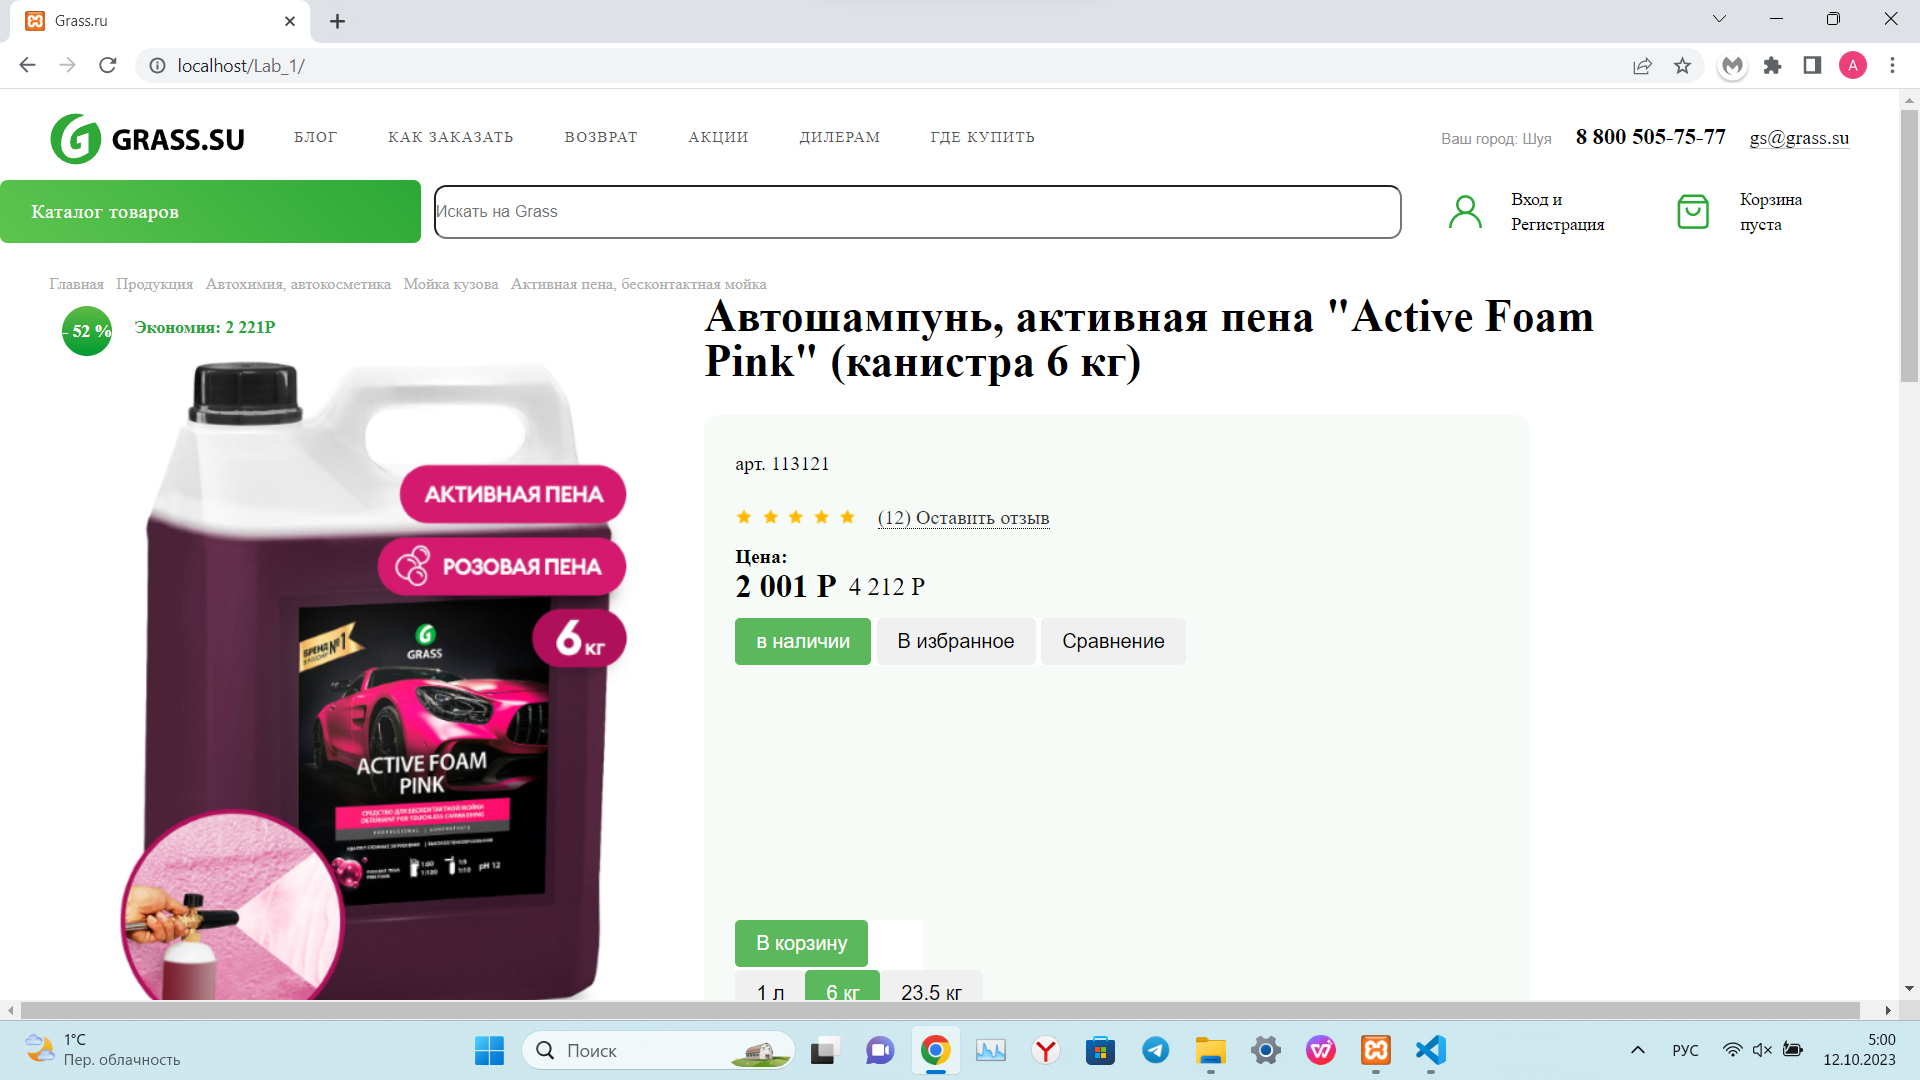
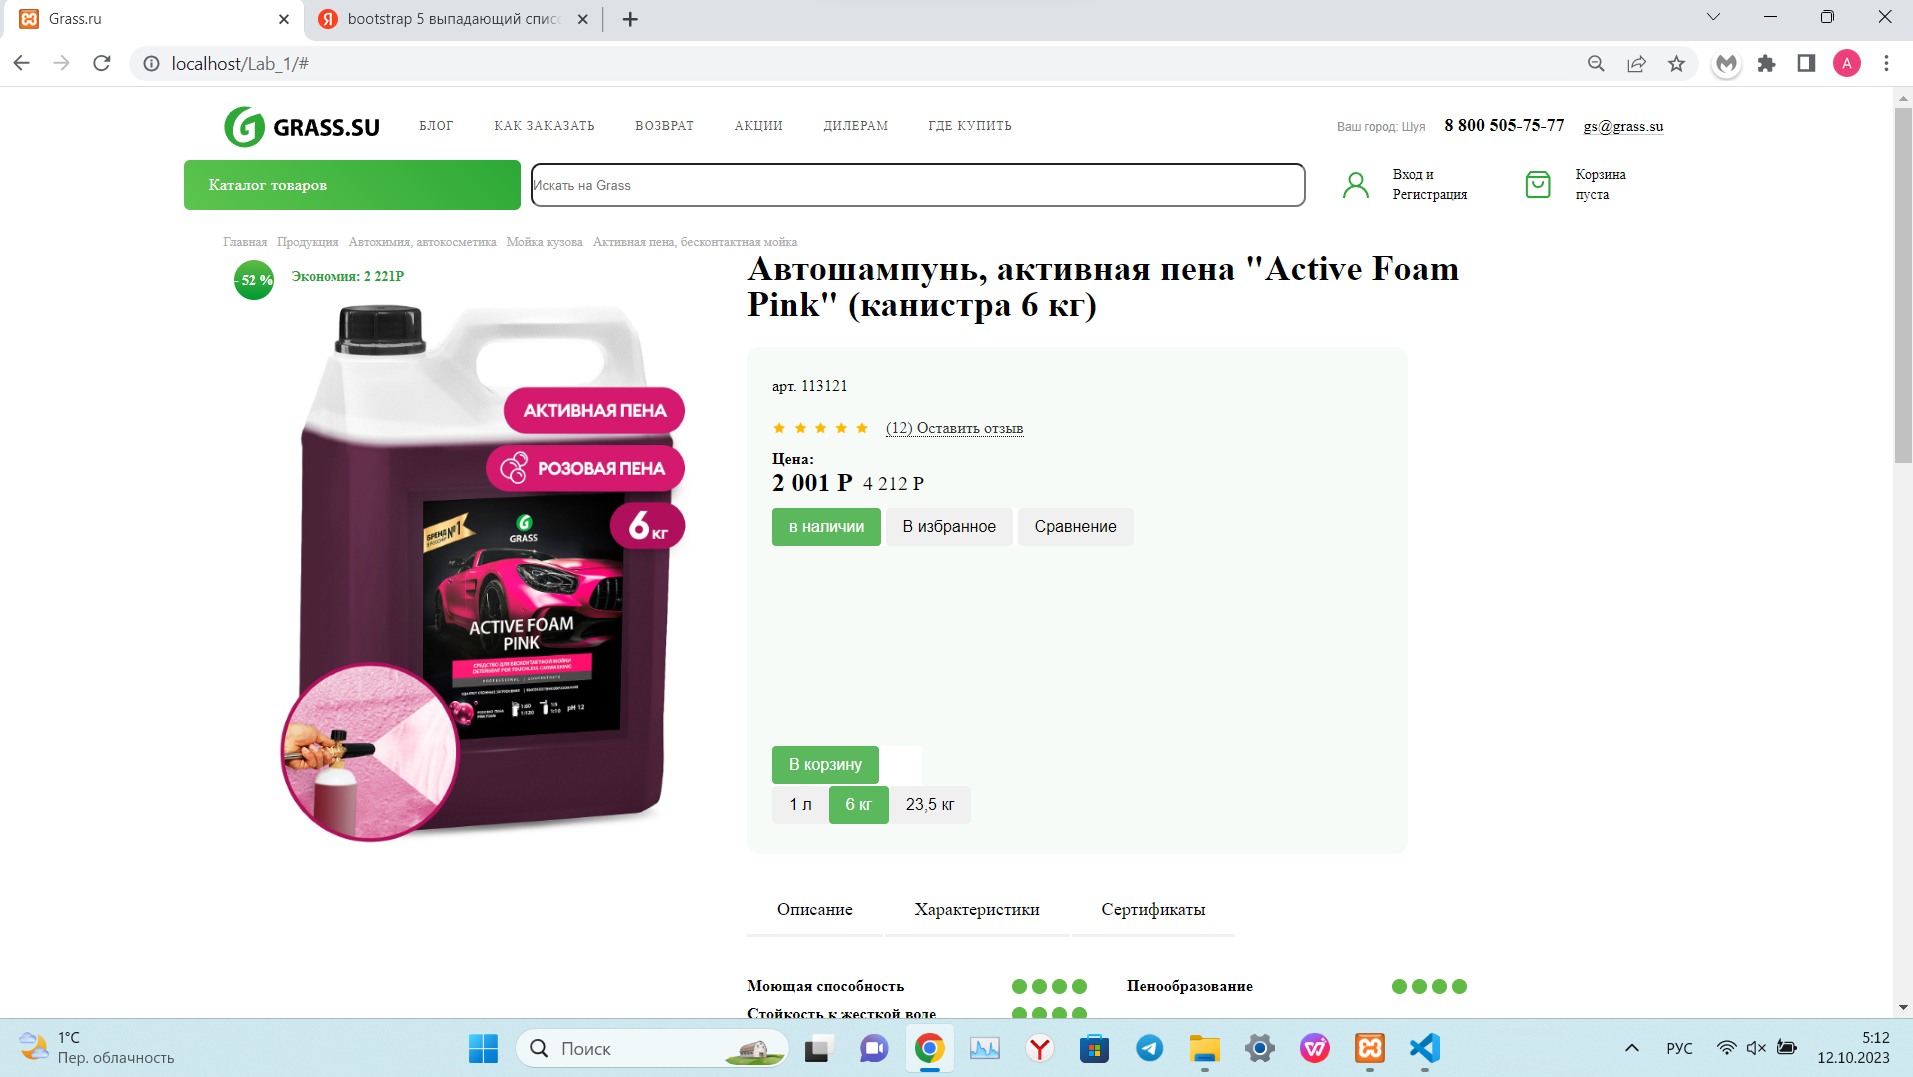
Финал первой Лабораторной

diff --git a/Lab_1/Site/index.html b/Lab_1/Site/index.html
@@ -68,11 +68,9 @@
                     <div class="header_line_two_section2">
                         <div class="header_line_two_section2-content">
                             <form action="/search/">
-                                <div class="header_line_two_section2-input">
                                     <span class="header_line_two_section2-input-section2">
-                                            <input type="text" style = "width: 100%; margin-left: 30px;height: 40px; border-radius:10px;"  placeholder = "Искать на Grass" class="header_line_two_section2-input-i">
+                                            <input type="text" style = "width: 95%; margin-left: 30px;height: 40px; border-radius:10px;"  placeholder = "Искать на Grass" class="header_line_two_section2-input-i">
                                     </span>
-                                </div>
                             </form>
                         </div>
                     </div>

diff --git a/Lab_1/Site/index.css b/Lab_1/Site/index.css
@@ -1,6 +1,6 @@
 body{
-    margin-left: 5%;
-    margin-right: 5%;
+    margin-left: 10%;
+    margin-right: 10%;
 }
 
 div, dl, dt, dd, ul, ol, li, h1, h2, h3, h4, h5, h6, pre, form, fieldset, input, textarea, p, blockquote, th, td {
